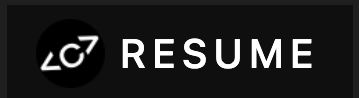
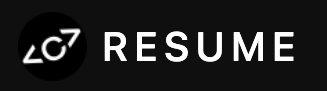
edit

Changed region(s): [[0.3058, 0.3297, 0.9174, 0.7033], [0.0612, 0.3077, 0.2752, 0.7253]]

diff --git a/README.md b/README.md
@@ -50,7 +50,7 @@
         <img src="profile.jpeg" width="450" style="border-radius: 10px;">
       </div>
       <div style="text-align:center;">
-        <a style="display:inline-block; margin: 0 auto;" href="https://cesarlpb.github.io/cv"><img src="resume.png"></a>
+        <a style="display:inline-block; margin: 0 auto;" href="https://cesarlpb.github.io/cv"><img src="resume.png" width="100"></a>
         <a style="display:inline-block; margin: 0 auto;" href="https://www.linkedin.com/in/cesarlpb89/"><img src="linkedin.svg"></a>
         <a style="display:inline-block; margin: 0 auto;" href="https://github.com/cesarlpb"><img src="github.svg"></a>
       </div> 
